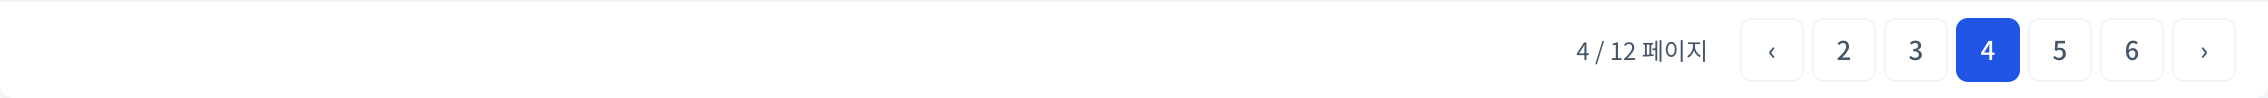
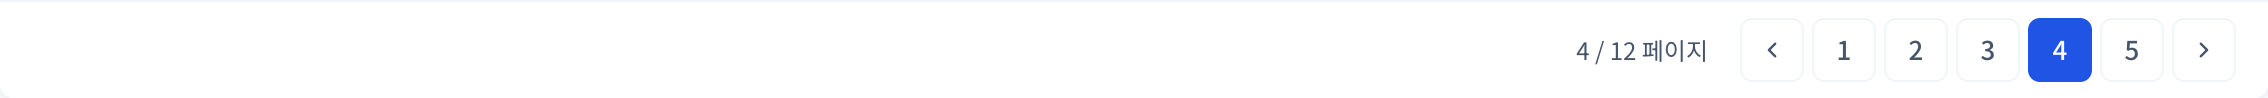
fix(transaction): 페이지네이션을 5페이지 묶음 이동으로 변경
Refs #553

Changed region(s): [[0.8025, 0.1837, 0.9259, 0.8571]]

diff --git a/frontend/src/features/transaction/transaction-list.test.tsx b/frontend/src/features/transaction/transaction-list.test.tsx
@@ -144,43 +144,44 @@ describe('TRAN-W01 수수료 지급 목록', () => {
     await waitFor(() => expect(lastRequest().has('attributionImbalanceOnly')).toBe(false))
     expect(lastRequest().get('settlementMonth')).toBe('2026-07')
   })
-  it('페이지는 1부터 시작하고 이전·다음은 한 페이지씩 이동하며 숨은 필터를 유지한다', async () => {
+  it('페이지는 1부터 시작하고 다음·이전 묶음으로 이동하며 숨은 필터를 유지한다', async () => {
     const { actions } = renderAt('/app/transactions?page=0&attributionImbalanceOnly=true')
     await screen.findByText('TRAN-410')
     expect(lastRequest().get('page')).toBe('1')
-    expect(screen.getByRole('button', { name: '이전 페이지' })).toBeDisabled()
-    await actions.click(screen.getByRole('button', { name: '다음 페이지' }))
-    await waitFor(() => expect(screen.getByText('2 / 7 페이지')).toBeInTheDocument())
+    expect(screen.getByRole('button', { name: '이전 5페이지' })).toBeDisabled()
+    await actions.click(screen.getByRole('button', { name: '다음 5페이지' }))
+    await waitFor(() => expect(screen.getByText('6 / 7 페이지')).toBeInTheDocument())
     expect(lastRequest().get('attributionImbalanceOnly')).toBe('true')
-    await actions.click(screen.getByRole('button', { name: '이전 페이지' }))
-    await waitFor(() => expect(lastRequest().get('page')).toBe('1'))
+    await actions.click(screen.getByRole('button', { name: '이전 5페이지' }))
+    await waitFor(() => expect(lastRequest().get('page')).toBe('5'))
   })
-  it('4페이지에서도 양방향 이동이 가능하고 첫·끝 경계와 숫자 범위를 표시한다', async () => {
+  it('4페이지는 첫 묶음을 표시하고 숫자 선택·묶음 이동·경계·안내를 유지한다', async () => {
     const { actions } = renderAt(
       '/app/transactions?month=2026-07&settlementMonth=2026-07&contractNo=POL-2&page=4',
     )
     await screen.findByText('4 / 7 페이지')
-    const pagination = () => within(screen.getByRole('navigation', { name: '수수료 지급 건 목록 페이지 선택' }))
-    expect(pagination().queryByRole('button', { name: '처음' })).toBeNull()
-    expect(pagination().queryByRole('button', { name: '마지막' })).toBeNull()
-    expect(pagination().getAllByRole('button').map((button) => button.textContent)).toEqual([
-      '‹', '2', '3', '4', '5', '6', '›',
-    ])
-    expect(pagination().getByRole('button', { name: '이전 페이지' })).toBeEnabled()
-    expect(pagination().getByRole('button', { name: '다음 페이지' })).toBeEnabled()
-    await actions.click(pagination().getByRole('button', { name: '이전 페이지' }))
+    const pagination = () => screen.getByRole('navigation', { name: '수수료 지급 건 목록 페이지 선택' })
+    const controls = () => within(pagination())
+    expect(controls().queryByRole('button', { name: '처음' })).toBeNull()
+    expect(controls().queryByRole('button', { name: '마지막' })).toBeNull()
+    expect(pagination().querySelector('[aria-current="page"]')).toHaveTextContent('4')
+    expect(pagination().querySelectorAll('.pagination-button')).toHaveLength(7)
+    expect(controls().getByRole('button', { name: '이전 5페이지' })).toBeDisabled()
+    expect(controls().getByRole('button', { name: '다음 5페이지' })).toBeEnabled()
+    expect(controls().getByRole('button', { name: '다음 5페이지' })).toHaveAttribute('title', '다음 5페이지')
+    await actions.click(controls().getByRole('button', { name: '3' }))
     await screen.findByText('3 / 7 페이지')
-    await actions.click(pagination().getByRole('button', { name: '다음 페이지' }))
-    await screen.findByText('4 / 7 페이지')
-    await actions.click(pagination().getByRole('button', { name: '다음 페이지' }))
-    await screen.findByText('5 / 7 페이지')
+    await actions.click(controls().getByRole('button', { name: '다음 5페이지' }))
+    await screen.findByText('6 / 7 페이지')
     expect(lastRequest().get('contractNo')).toBe('POL-2')
     expect(lastRequest().get('settlementMonth')).toBe('2026-07')
-    await actions.click(pagination().getByRole('button', { name: '7' }))
+    expect(pagination().querySelectorAll('.pagination-button')).toHaveLength(4)
+    expect(controls().getByRole('button', { name: '다음 5페이지' })).toBeDisabled()
+    expect(controls().getByRole('button', { name: '이전 5페이지' })).toHaveAttribute('title', '이전 5페이지')
+    await actions.click(controls().getByRole('button', { name: '7' }))
     await screen.findByText('7 / 7 페이지')
-    expect(pagination().getByRole('button', { name: '다음 페이지' })).toBeDisabled()
-    await actions.click(pagination().getByRole('button', { name: '이전 페이지' }))
-    await screen.findByText('6 / 7 페이지')
+    await actions.click(controls().getByRole('button', { name: '이전 5페이지' }))
+    await screen.findByText('5 / 7 페이지')
   })
   it('정산월을 지운 뒤 조회·재조회해도 전체 월 상태와 빈 입력을 유지한다', async () => {
     const { router, actions } = renderAt('/app/transactions?month=2026-07&settlementMonth=2026-07')
@@ -202,7 +203,7 @@ describe('TRAN-W01 수수료 지급 목록', () => {
     const { router, actions } = renderAt()
     await screen.findByRole('option', { name: '홍길동' })
     resultRows = [{ ...row, commissionTransactionId: 42, recipientAgentId: 4, recipientAgentName: '김길동' }]
-    await actions.click(screen.getByRole('button', { name: '다음 페이지' }))
+    await actions.click(screen.getByRole('button', { name: '다음 5페이지' }))
     expect(await screen.findByRole('option', { name: '김길동' })).toBeInTheDocument()
     expect(screen.getByRole('option', { name: '홍길동' })).toBeInTheDocument()
     await act(() => router.navigate('/transactions?month=2026-07&contractNo=RESTORED&agentId=999'))

diff --git a/frontend/src/components/Pagination.tsx b/frontend/src/components/Pagination.tsx
@@ -33,6 +33,7 @@ export function Pagination({
       <button
         type="button"
         className={compact || legacy ? 'pagination-button' : 'button button-ghost'}
+        title={legacy ? '이전 5페이지' : undefined}
         aria-label={legacy ? '이전 5페이지' : compact ? '이전 페이지' : undefined}
         disabled={compact ? current === 1 : start === 1}
         onClick={() => onPageChange(compact ? current - 1 : start - 1)}
@@ -68,6 +69,7 @@ export function Pagination({
       <button
         type="button"
         className={compact || legacy ? 'pagination-button' : 'button button-ghost'}
+        title={legacy ? '다음 5페이지' : undefined}
         aria-label={legacy ? '다음 5페이지' : compact ? '다음 페이지' : undefined}
         disabled={compact ? current === last : start + 4 >= last}
         onClick={() => onPageChange(compact ? current + 1 : start + 5)}

diff --git a/frontend/src/features/transaction/TransactionListPage.tsx b/frontend/src/features/transaction/TransactionListPage.tsx
@@ -251,7 +251,7 @@ export default function TransactionListPage() {
               {page} / {totalPages} 페이지
             </span>
             <Pagination
-              compact
+              legacy
               label="수수료 지급 건 목록 페이지 선택"
               page={page}
               totalPages={totalPages}

diff --git a/frontend/docs/553/README.md b/frontend/docs/553/README.md
@@ -4,15 +4,18 @@
 
 ## 변경
 
-수수료 지급 건 목록에서 기존 공통 Pagination의 compact 모드를 사용합니다.
+수수료 지급 건 목록에서 기존 공통 Pagination의 legacy 모드를 사용합니다.
 
 - 처음·마지막 텍스트 버튼 제거
-- 이전·다음 화살표는 한 페이지 이동
-- 현재 페이지 주변 숫자 최대 5개 표시
-- 현재 / 전체 페이지 표시 및 검색조건·정산월 유지
-- 첫·마지막 페이지에서 해당 방향 화살표 비활성
+- 숫자를 1~5, 6~10처럼 최대 5개씩 묶어 표시
+- 다음 화살표는 다음 묶음의 첫 페이지로 이동 (4 → 6)
+- 이전 화살표는 이전 묶음의 마지막 페이지로 이동 (6 → 5)
+- 숫자를 선택하면 해당 페이지로 직접 이동
+- 첫 묶음에서는 이전, 마지막 묶음에서는 다음 화살표 비활성
+- 활성 화살표에 title로 이전 5페이지·다음 5페이지 안내 제공
+- 현재 / 전체 페이지 및 검색조건·정산월 유지
 
-기존 Thymeleaf와 완전히 같은 동작을 요구하지 않는 의도적 UX 개선입니다. 다른 화면의 Pagination 모드와 공통 컴포넌트 코드는 변경하지 않습니다. 공통 비활성 표시와 현재 페이지 hover 색상은 PR #550의 변경을 사용하므로 해당 PR의 선행 병합을 권장합니다.
+사용자 결정에 따라 한 페이지 이동 대신 기존 5페이지 묶음 이동으로 확정했습니다. 다른 화면의 이동 규칙은 유지합니다. 공통 Pagination의 legacy 화살표에도 같은 title 안내가 추가됩니다. 공통 비활성 표시와 현재 페이지 hover 색상은 PR #550에서 관리하므로 해당 PR의 선행 병합을 권장합니다.
 
 ## 스크린샷
 
@@ -32,9 +35,9 @@
 
 ## 검증
 
-- 브라우저: 4 → 3 / 4 → 5, 숫자 6 선택, 1·12페이지 경계 확인
-- 현재 페이지 주변 숫자 2·3·4·5·6 표시
+- 4페이지에서 1·2·3·4·5 표시, 이전 비활성·다음 활성
+- 브라우저: 4 → 6, 6 → 5, 숫자 3 선택, 6 → 11 확인
+- 첫·마지막 묶음 경계와 화살표 title 확인
 - 이동 후 contractNo·settlementMonth·month·attributionImbalanceOnly 유지
 - 375px 화면에서 페이지네이션 버튼이 뷰포트를 넘지 않음
-- 기존 목록 테스트의 5페이지 그룹 이동 기대값을 인접 페이지 이동으로 변경
-- 4페이지 양방향 이동·숫자 범위·마지막 경계·검색조건 유지 회귀 검사 추가
+- 목록 테스트에 묶음 이동·숫자 선택·경계·안내·검색조건 유지 반영
